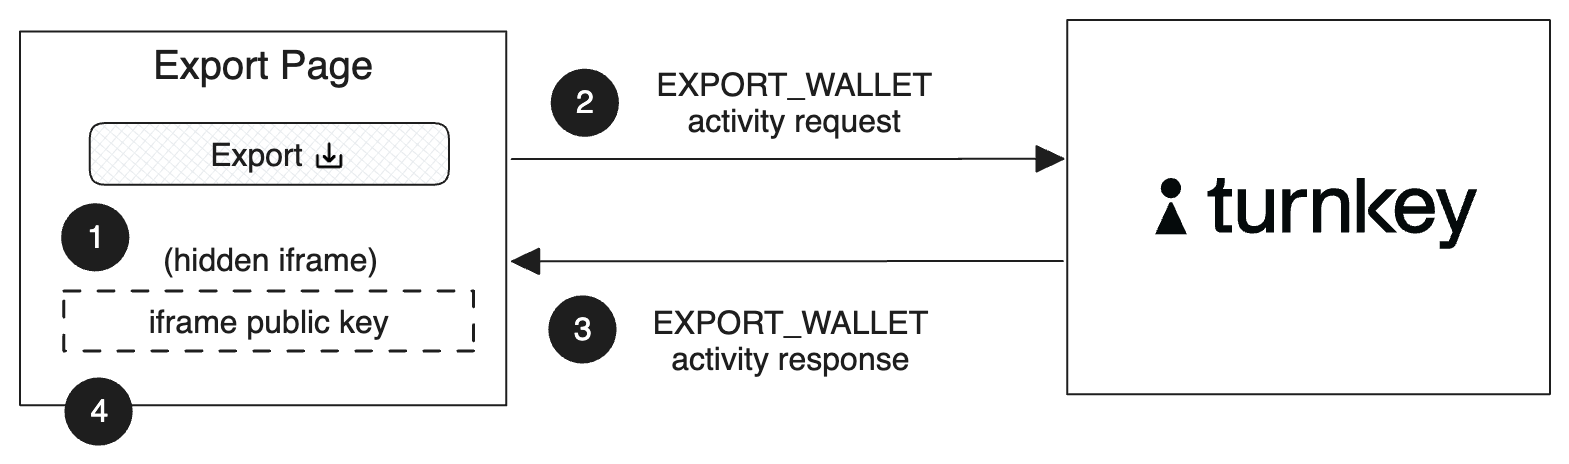
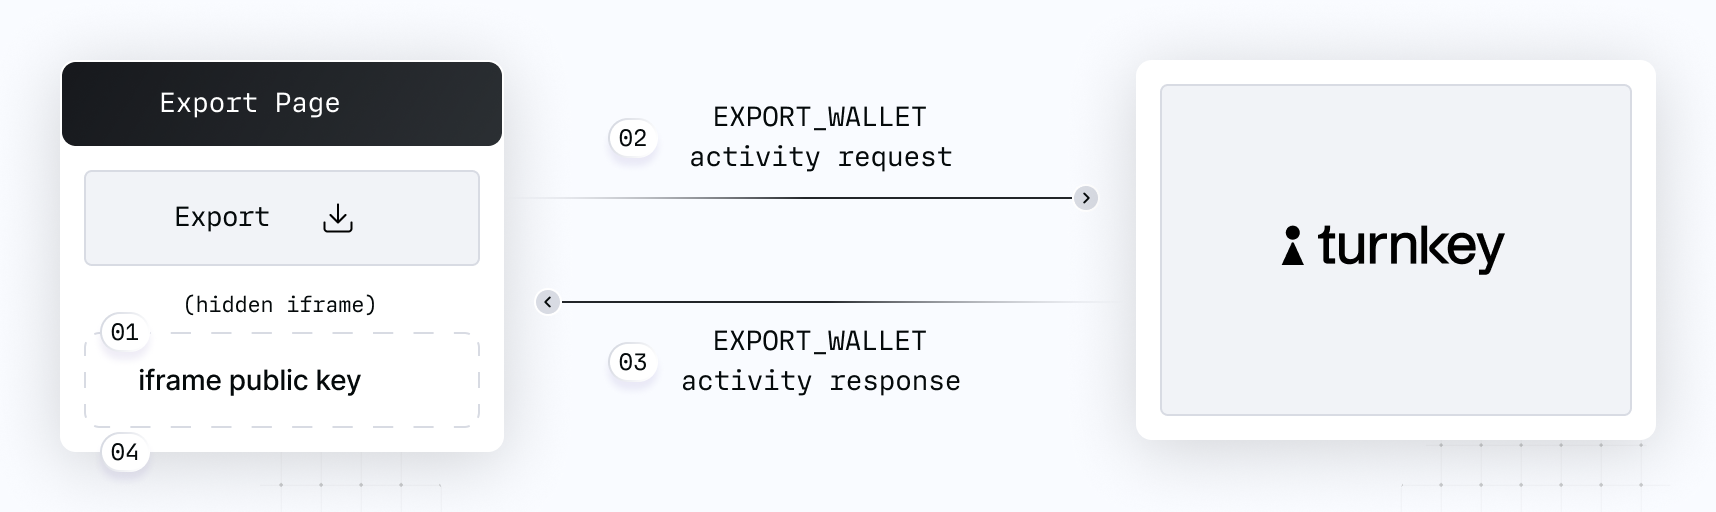
update export diagrams to turnkey style

diff --git a/docs/integration-guides/export-wallets.md b/docs/integration-guides/export-wallets.md
@@ -124,7 +124,7 @@ It works by anchoring export in a **target encryption key** (TEK). This target e
     <img
         src="/img/wallet_export_cryptography.png"
         alt="export cryptography"
-        style={{ height: 460 }}
+        style={{ height: 280 }}
     />
 </p>
 
